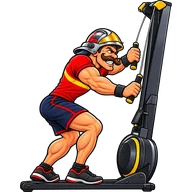
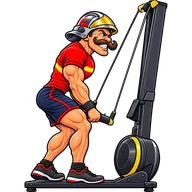
SkiErg : nouvelle illustration (mains corrigées), corde en trop effacée
Claude-Session: https://claude.ai/code/session_01Rtbukj4HqwBJ4CZhRR1bdY

diff --git a/sw.js b/sw.js
@@ -1,6 +1,6 @@
 // Service worker de Gestion ICP : rend l'appli installable et accélère les
 // ouvertures suivantes. Les données (Supabase) ne passent JAMAIS par le cache.
-const VERSION = 'icp-v59';
+const VERSION = 'icp-v60';
 const COQUILLE = ['./', 'index.html', 'manifest.webmanifest'];
 
 self.addEventListener('install', (e) => {
